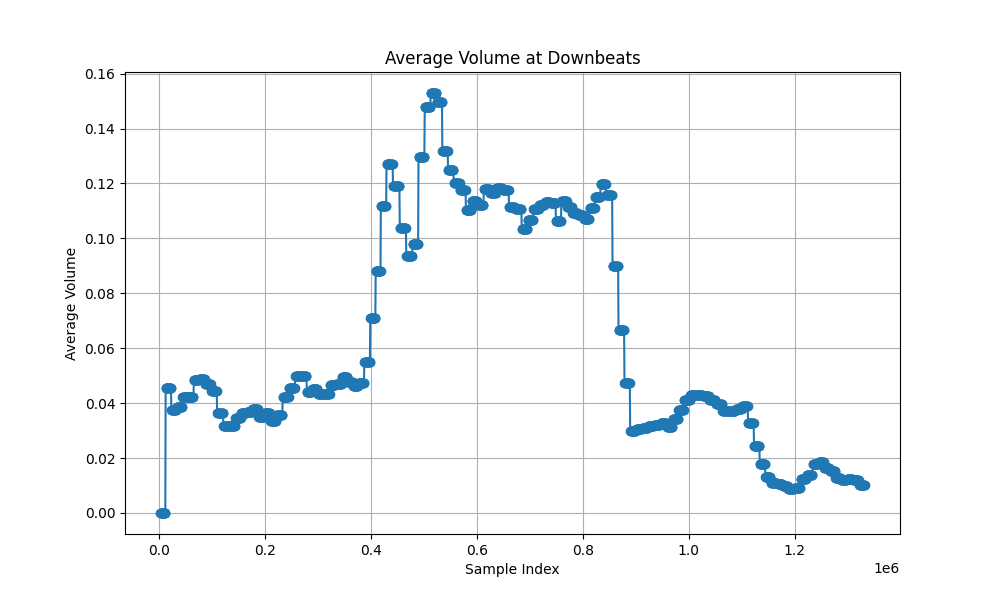
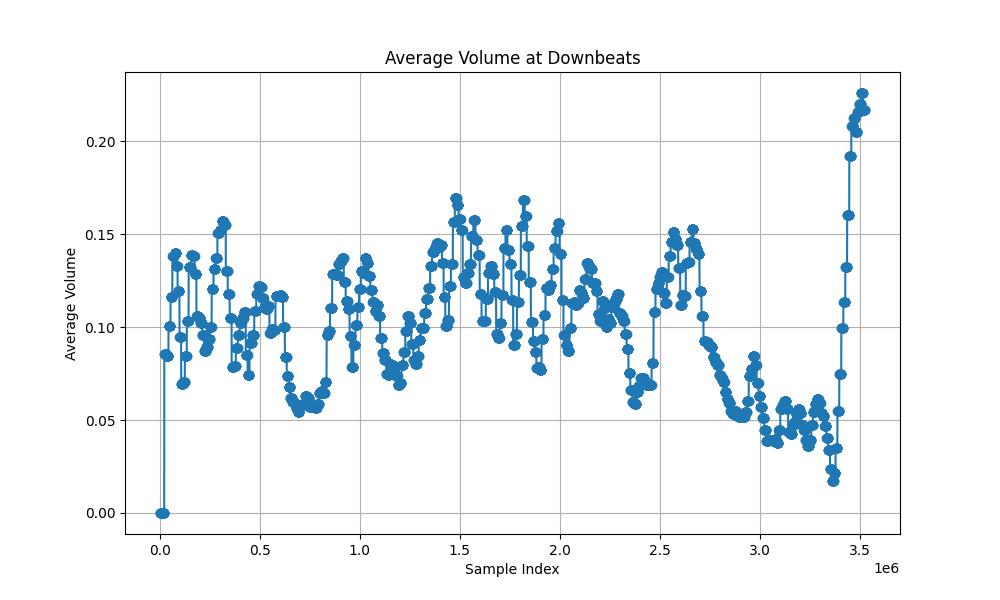
prog

diff --git a/beat.py b/beat.py
@@ -13,8 +13,8 @@ N_PIXELS = 100
 DEBUG = True
 
 ser = serial.Serial('/dev/ttyUSB0', 115200)
-# serLights = serial.Serial('/dev/ttyUSB1', 115200)
-serLights  = ser
+# serLights  = ser
+serLights = serial.Serial('/dev/ttyUSB1', 115200)
 
 i = 0
 
@@ -28,6 +28,7 @@ def sendSerMotor(data: str):
             print("SENDING DATA", i, data)
         ser.write(data.encode())
 
+
 def sendSerLights(data):
     data += "\r\n"
     if DEBUG:
@@ -37,13 +38,13 @@ def sendSerLights(data):
     serLights.write(data.encode())
 
 
-
 def formatAngleMove(angle, delayMicroSec=500):
     dir = "+" if angle > 0 else "-"
     angle = abs(angle)
     angle = str(angle).zfill(6)[:6]
     delayMicroSec = str(delayMicroSec).zfill(5)[:5]
     return f"{dir}:{angle}:{delayMicroSec}"
+
 
 def formatPixelSet(pixels: list[int], Rs: list[int], Gs: list[int], Bs: list[int]):
     extra_str = ""
@@ -56,54 +57,64 @@ def formatPixelSet(pixels: list[int], Rs: list[int], Gs: list[int], Bs: list[int
 def save_wav_file(y, sr, file_path):
     sf.write(file_path, y, sr)
 
+
 def generateGaussianRandomMotorMovement(time_steps: int, volumes_diffs: list[int]):
     N_ZONES = 6
     diff_min, diff_max = min(volumes_diffs), max(volumes_diffs)
     diff_separation = (diff_max - diff_min) / N_ZONES
-    MAX_MOVE = 700
-    MIN_MOVE = -700
-    MAX_DELAY = 5_000
-    MIN_DELAY = 400
-
+    MAX_MOVE = 200
+    MIN_MOVE = -200
+    MAX_DELAY = 3_000
+    MIN_DELAY = 2_000
 
     gaussian_angle_means = [0 for i in range(N_ZONES)]
-    gaussian_angle_vars = [40 * i for i in range(N_ZONES)]
+    gaussian_angle_vars = [(MAX_MOVE // N_ZONES) * i for i in range(N_ZONES)]
 
-    gaussian_delay_microsec_means = [int(MAX_DELAY - (((MAX_DELAY - MIN_DELAY) // N_ZONES) * (i + 1))) for i in range(N_ZONES)]
+    gaussian_delay_microsec_means = [int(
+        MAX_DELAY - (((MAX_DELAY - MIN_DELAY) // N_ZONES) * (i + 1))) for i in range(N_ZONES)]
     gaussian_delay_microsec_vars = [20 * i for i in range(N_ZONES)]
 
     def sample(idx):
-        delay_samp = np.random.normal(gaussian_delay_microsec_means[idx], gaussian_delay_microsec_vars[idx])
-        angle_samp = np.random.normal(gaussian_angle_means[idx], gaussian_angle_vars[idx])
+        print(idx, N_ZONES)
+        while True:
+            delay_samp = np.random.normal(
+                gaussian_delay_microsec_means[idx], gaussian_delay_microsec_vars[idx])
+            angle_samp = np.random.normal(
+                gaussian_angle_means[idx], gaussian_angle_vars[idx])
 
-        if angle_samp > MAX_MOVE or angle_samp < MIN_MOVE or delay_samp > MAX_DELAY or delay_samp < MIN_DELAY:
-            return sample(idx)
-        return (int(round(angle_samp)), int(round(delay_samp)))
+            if not (angle_samp > MAX_MOVE or angle_samp < MIN_MOVE or delay_samp > MAX_DELAY or delay_samp < MIN_DELAY):
+                return (int(round(angle_samp)), int(round(delay_samp)))
     cmds: list[str] = []
- 
-    def get_volume_diff_partition(i):
-        return int((volumes_diffs[i] - diff_min) // diff_separation)
 
+    def get_volume_diff_partition(i):
+        # TODO: WHAT
+        return min(int((volumes_diffs[i] - diff_min) // diff_separation), N_ZONES - 1)
+
+    N_STEPS_PER_MOVE = 16
     for i in range(time_steps):
         # TODO:: idk
-        # if pixel 
+        # if pixel
         # print("Color command", cmd)
-        angle_samp, delay_samp = sample(get_volume_diff_partition(i))
-        cmds.append(formatAngleMove(angle_samp, delay_samp))
+        if i % N_STEPS_PER_MOVE == 0:
+            angle_samp, delay_samp = sample(get_volume_diff_partition(i))
+            cmds.append(formatAngleMove(angle_samp, delay_samp))
+        else:
+            cmds.append("")
     return cmds
 
+
 def generateGaussianRandomDownwardLight(time_steps: int, volumes: list[int], gaussian_means: list[list[float]], gaussian_stds: list[list[float]],
-                                        n_lights=N_PIXELS, top_pixel_is_max = True):
+                                        n_lights=N_PIXELS, top_pixel_is_max=True):
     """
         Sample from a Gaussian distribution which should have width to around 255ish.
         We will re-sample until we get a value that is within the range of 0-255.
     """
-    assert len(gaussian_means) == len(gaussian_stds), "Must have same number of means and stds"
+    assert len(gaussian_means) == len(
+        gaussian_stds), "Must have same number of means and stds"
 
     N_VOLUME_SEPARATIONS = 6
     vol_min, vol_max = min(volumes), max(volumes)
     vol_separation = (vol_max - vol_min) / N_VOLUME_SEPARATIONS
-
 
     def sample():
         idx = np.random.choice(len(gaussian_means))
@@ -122,7 +133,7 @@ def generateGaussianRandomDownwardLight(time_steps: int, volumes: list[int], gau
 
     for i in range(time_steps):
         # TODO:: idk
-        # if pixel 
+        # if pixel
         # print("Color command", cmd)
         n_pixel_step = int(round(1.7 ** get_volume_partition(i)))
         # TODO: progromatting
@@ -142,6 +153,7 @@ def generateGaussianRandomDownwardLight(time_steps: int, volumes: list[int], gau
         cmds.append(s)
     return cmds
     # Start
+
 
 def amplify_on_downbeats(y, sr, downbeat_times, window=0.1, amplification_factor=1.5):
     # Calculate the number of samples to mute based on mute_duration
@@ -178,7 +190,7 @@ def get_sample_moments(y, sr, downbeat_subdivisions=16):
         INTERV = 1
         if (i - 1) % INTERV == 0:
             downbeats.append(beats[i])
-        
+
     def add_downbeat_time_steps(mul_fact=16):
         volumes = []
         volumes_diffs = []
@@ -188,11 +200,13 @@ def get_sample_moments(y, sr, downbeat_subdivisions=16):
             if i >= 1:
                 period = downbeats[i] - downbeats[i - 1]
                 for j in range(mul_fact):
-                    steps.append(int(round(downbeats[i - 1] + (period / mul_fact) * j)))
-                    
+                    steps.append(
+                        int(round(downbeats[i - 1] + (period / mul_fact) * j)))
+
                     # Make it 1 second for now?
                     window_size = sr * 2
-                    avg = sum(y_abs[beats[i] - window_size // 2:beats[i] + window_size // 2]) / window_size
+                    avg = sum(y_abs[beats[i] - window_size //
+                              2:beats[i] + window_size // 2]) / window_size
                     if i == 1 and j == 0:
                         volumes_diffs.append(0)
                     else:
@@ -229,6 +243,7 @@ def send_serial_commands_at_downbeats(downbeat_times, sr, cmds):
         # direction = 1 if i % 2 == 0 else -1
         threading.Timer(wait_time, sendSerMotor, args=[cmds[i]]).start()
 
+
 def send_light_commands_at_downbeats(downbeat_times, sr, cmds):
     for i, downbeat_time in enumerate(downbeat_times):
         # print(cmds[i], i)
@@ -236,10 +251,12 @@ def send_light_commands_at_downbeats(downbeat_times, sr, cmds):
         wait_time = downbeat_time / sr
         threading.Timer(wait_time, sendSerLights, args=[cmds[i]]).start()
 
+
 def clearLights():
     sendSerMotor("C")
 
-def do_it(filename, window_length=0.2, amplification_factor=1.2):
+
+def do_it(filename, color_means, color_vars, window_length=0.2, amplification_factor=1.2):
     # Load the audio file
     y, sr = librosa.load(filename)
     time_steps, volumes, volumes_diffs = get_sample_moments(y, sr)
@@ -252,8 +269,10 @@ def do_it(filename, window_length=0.2, amplification_factor=1.2):
     # Save the modified file
     # save_wav_file(y, sr, "out.wav")
 
-    lightCmds = generateGaussianRandomDownwardLight(len(time_steps), volumes, [[150, 10, 200], [20, 150, 200], [255, 0, 0], [10, 10, 10]], [[20, 2, 50], [10, 40, 50], [50, 20, 20], [2, 2, 2]])
-    motorCmds = generateGaussianRandomMotorMovement(len(time_steps), volumes_diffs)
+    lightCmds = generateGaussianRandomDownwardLight(
+        len(time_steps), volumes, color_means, color_vars)
+    motorCmds = generateGaussianRandomMotorMovement(
+        len(time_steps), volumes_diffs)
     # print("LEN LIGHTS", len(time_steps), len(lightCmds))
 
     # Create a thread for playing the music
@@ -275,7 +294,7 @@ def do_it(filename, window_length=0.2, amplification_factor=1.2):
     # send_motor_commands_thread.start()
     send_light_commands_thread.start()
     send_motor_commands_thread.start()
-    
+
     # Wait for the play thread to finish
     play_thread.join()
     # send_motor_commands_thread.join()
@@ -295,8 +314,14 @@ def do_it(filename, window_length=0.2, amplification_factor=1.2):
 
 if __name__ == "__main__":
     # Example:
+    color_means_melodic, color_vars_melodic = [[150, 10, 200], [20, 150, 200], [
+        255, 0, 0], [10, 10, 10]], [[20, 2, 50], [10, 40, 50], [50, 20, 20], [2, 2, 2]]
+    color_means_triumphant, color_vars_triumphant = [[250, 10, 10], [200, 10, 200], [
+        255, 128, 0], [10, 10, 10]], [[10, 30, 30], [30, 40, 30], [2, 20, 1], [2, 2, 2]]
     filename = 'GirlFellTrimmed.mp3'
+    filename = 'EtudeC.mp3'
+    # filename = 'Canon_in_F_minor.mp3'
     # filename = 'GirlFellTrimmed.mp3 '
     # filename = 'raindrop.mp3'
-    upbeats = do_it(filename)
+    upbeats = do_it(filename, color_means_triumphant, color_vars_triumphant)
     # print(upbeats)
